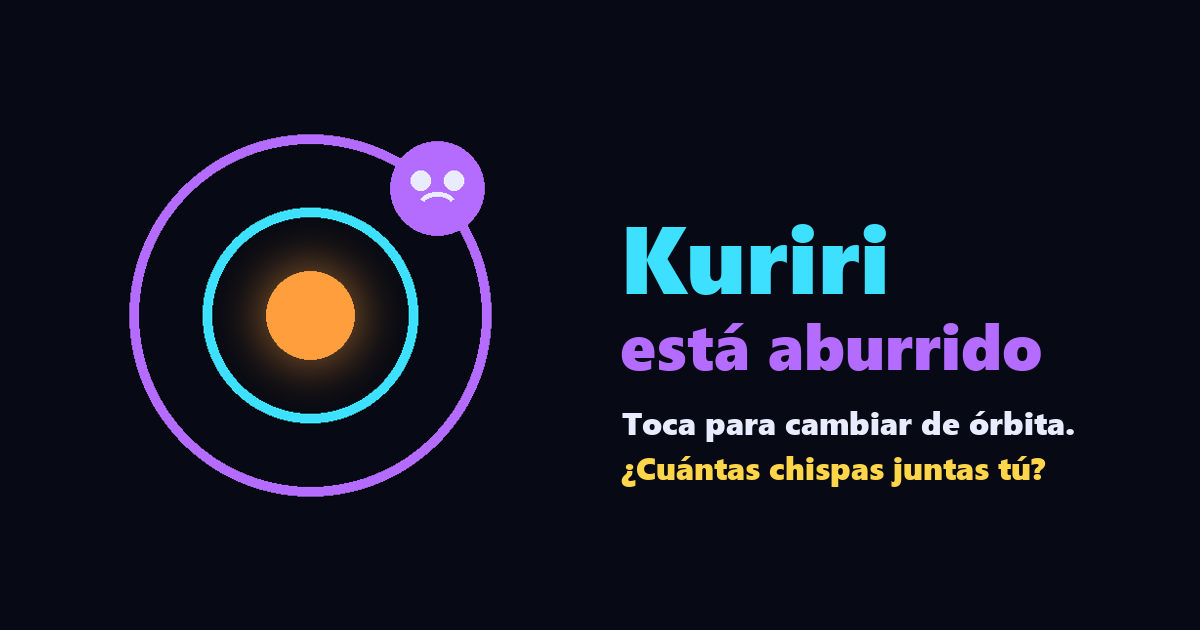
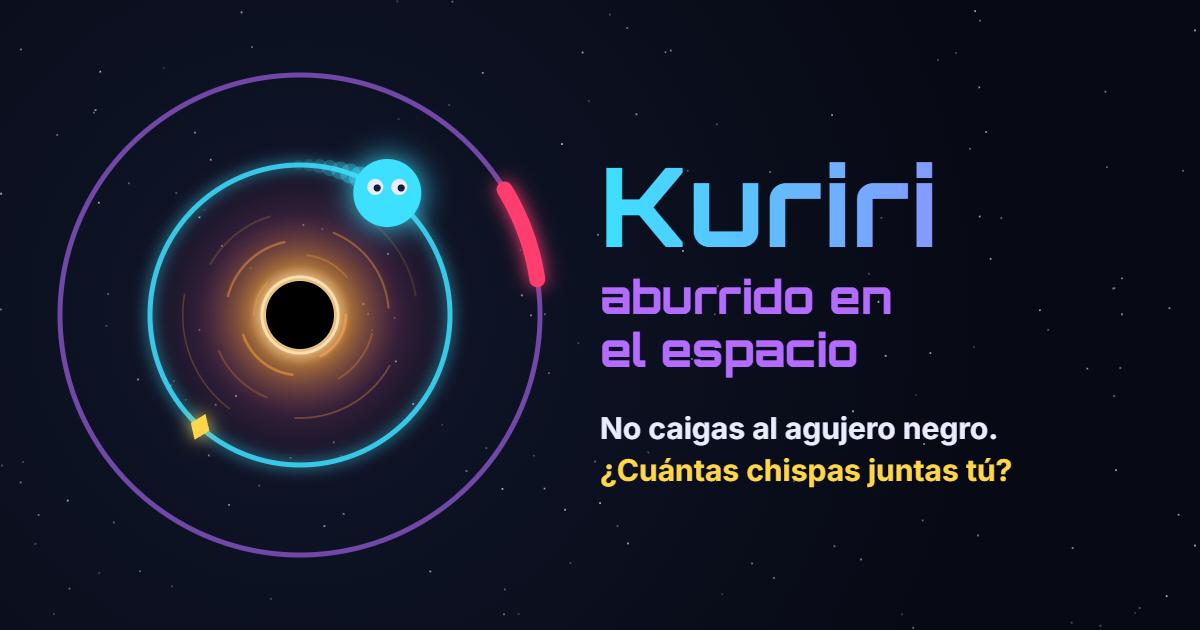
Kuriri aburrido en el espacio: nombre nuevo, intro del sueño, vista previa nueva y modo ?prueba

diff --git a/index.html b/index.html
@@ -3,7 +3,7 @@
 <head>
 <meta charset="utf-8">
 <meta name="viewport" content="width=device-width, initial-scale=1, viewport-fit=cover, user-scalable=no">
-<title>Kuriri está aburrido</title>
+<title>Kuriri aburrido en el espacio</title>
 <meta name="description" content="Juego de un dedo: Kuriri orbita un agujero negro y cae hacia él sin llegar nunca. Junta chispas y esquiva los arcos rojos.">
 <meta name="theme-color" content="#070a14">
 <meta name="apple-mobile-web-app-capable" content="yes">
@@ -11,9 +11,9 @@
 <meta name="apple-mobile-web-app-status-bar-style" content="black-translucent">
 <meta name="apple-mobile-web-app-title" content="Kuriri">
 <meta property="og:type" content="website">
-<meta property="og:title" content="Kuriri está aburrido">
+<meta property="og:title" content="Kuriri aburrido en el espacio">
 <meta property="og:description" content="Juego de un dedo: Kuriri cae a un agujero negro sin llegar nunca. Junta chispas, no te hagas espagueti y entra al Top 5.">
-<meta property="og:image" content="https://camj90.github.io/kuriri/vista-previa.png">
+<meta property="og:image" content="https://camj90.github.io/kuriri/vista-previa.png?v=2">
 <meta property="og:image:width" content="1200">
 <meta property="og:image:height" content="630">
 <meta property="og:url" content="https://camj90.github.io/kuriri/">
@@ -73,6 +73,20 @@ canvas{position:fixed;inset:0;width:100%;height:100%;display:block}
 .top li.tu{background:rgba(255,213,74,.14);box-shadow:inset 0 0 0 1px rgba(255,213,74,.55)}
 .top li.vacio{display:block;color:var(--dim);font-size:14px}
 .top .estado{margin:0;font-size:12px;color:var(--dim)}
+/* intro: texto abajo, botón para saltar arriba; el HUD se esconde mientras dura */
+#intro{position:fixed;inset:0;pointer-events:none}
+#introTxt{position:fixed;left:max(16px,env(safe-area-inset-left,0px));right:max(16px,env(safe-area-inset-right,0px));
+  bottom:calc(env(safe-area-inset-bottom,0px) + 48px);margin:0 auto;max-width:420px;text-align:center;
+  font:600 18px/1.45 var(--body);color:var(--ink);text-wrap:balance;text-shadow:0 2px 14px #000,0 0 4px #000}
+#introTxt.entra{animation:entra .6s ease-out}
+@keyframes entra{0%{opacity:0;transform:translateY(8px)}100%{opacity:1;transform:none}}
+#saltar{position:fixed;top:calc(env(safe-area-inset-top,0px) + 14px);right:max(16px,env(safe-area-inset-right,0px));pointer-events:auto;
+  font:800 12px var(--display);letter-spacing:.14em;color:var(--ink);background:rgba(255,255,255,.08);
+  border:1px solid rgba(255,255,255,.18);border-radius:999px;padding:10px 16px;cursor:pointer}
+#saltar:focus-visible,.link:focus-visible{outline:2px solid var(--inner);outline-offset:2px}
+body.en-intro .hud{visibility:hidden}
+.link{justify-self:center;background:none;border:0;color:var(--dim);font:600 14px var(--body);text-decoration:underline;
+  text-underline-offset:3px;padding:6px 10px;cursor:pointer}
 *{box-sizing:border-box}html,body{margin:0}[hidden]{display:none!important}
 :root{padding-top:env(safe-area-inset-top,0px);padding-bottom:env(safe-area-inset-bottom,0px)}
 </style>
@@ -87,15 +101,21 @@ canvas{position:fixed;inset:0;width:100%;height:100%;display:block}
 </div>
 <div id="panel">
   <div class="caja">
-    <h1>Kuriri está aburrido</h1>
+    <h1>Kuriri aburrido en el espacio</h1>
     <div class="res" id="res" hidden><span class="big" id="final">0</span>chispas · récord <span id="finalRecord">0</span></div>
     <p id="msg">Kuriri orbita un agujero negro y cae hacia él, cada vez más lento, sin llegar nunca. <b>Toca la pantalla</b> para saltar entre la órbita interior y la exterior. Junta chispas y esquiva los arcos rojos: si chocas, Kuriri cae al centro y se estira como espagueti.</p>
     <div class="leyenda"><span><i style="background:var(--spark)"></i>chispa</span><span><i style="background:var(--danger)"></i>peligro</span></div>
     <div class="campo"><label for="nombre">Tu nombre de jugador</label>
       <input id="nombre" type="text" maxlength="12" autocomplete="nickname" placeholder="Escribe tu nombre" enterkeyhint="go"></div>
     <button id="jugar" type="button">JUGAR</button>
+    <button id="verIntro" class="link" type="button">Ver la intro</button>
     <div class="top"><h2>Top 5</h2><ol id="top"></ol><p class="estado" id="estadoTop"></p></div>
   </div>
+</div>
+
+<div id="intro" hidden>
+  <p id="introTxt" aria-live="polite"></p>
+  <button id="saltar" type="button">SALTAR ›</button>
 </div>
 
 <script>
@@ -134,6 +154,8 @@ addEventListener('resize', ajustar); ajustar();
 // únicamente marcas que superan la anterior del mismo jugador.
 const SB_URL = 'https://aiemzudvhrueskkxlgmf.supabase.co/rest/v1';
 const SB_KEY = 'sb_publishable_BgbW__E1u_GCmoDJEENWIA_LlORf1rE';
+// Con ?prueba en la dirección no se toca el ranking real (para probar el juego sin ensuciarlo).
+const PRUEBA = new URLSearchParams(location.search).has('prueba');
 const leer = (k, d) => { try { const v = localStorage.getItem(k); return v === null ? d : JSON.parse(v); } catch (e) { return d; } };
 const guardar = (k, v) => { try { localStorage.setItem(k, JSON.stringify(v)); } catch (e) {} };
 const clave = n => n.trim().toLocaleLowerCase('es');
@@ -182,6 +204,7 @@ function pintarTop() {
 }
 
 async function cargarTop() {
+  if (PRUEBA) { pintarTop(); return; }
   try {
     const r = await fetch(`${SB_URL}/marcas?select=nombre,puntos,fecha&order=puntos.desc,fecha.asc&limit=5`,
                           {headers: {apikey: SB_KEY}, cache: 'no-store'});
@@ -194,6 +217,7 @@ async function cargarTop() {
 
 // Sube la mejor marca local de ese jugador; el servidor la ignora si no supera la que ya tiene.
 async function subirMarca(nombre) {
+  if (PRUEBA) return;
   const mia = locales.find(e => clave(e.n) === clave(nombre));
   if (!mia) return;
   try {
@@ -259,17 +283,19 @@ const posJugador = () => ({x: cx + Math.cos(s.a) * s.pr, y: cy + Math.sin(s.a) *
 
 // ---------- entrada ----------
 function empezar() {
-  if (!audio) { try { audio = new (window.AudioContext || window.webkitAudioContext)(); } catch (e) {} }
   nuevo(); modo = 'juego';
   $('panel').hidden = true; $('puntos').textContent = '0';
   beep(440, 0.12, 'triangle', 0.1, 880);
 }
-function intentarEmpezar() {
-  if (modo === 'juego' || performance.now() - muertoEn < 650) return;
+function intentarEmpezar(conIntro = false) {
+  if (modo === 'juego' || modo === 'intro' || performance.now() - muertoEn < 650) return;
+  if (!audio) { try { audio = new (window.AudioContext || window.webkitAudioContext)(); } catch (e) {} }
   $('nombre').blur(); guardar('kuriri-nombre', $('nombre').value.trim());
-  empezar();
+  // La primera vez (o con «Ver la intro») se cuenta el sueño de Kuriri y luego parte el juego.
+  if (conIntro || !leer('kuriri-intro', 0)) empezarIntro(); else empezar();
 }
 function tocar(e) {
+  if (modo === 'intro') { if (e && e.target.id !== 'saltar') { e.preventDefault(); siguienteEscena(); } return; }
   if (modo !== 'juego') return;            // fuera del juego, los toques son del panel (nombre y botón)
   if (e) e.preventDefault();
   {
@@ -282,7 +308,7 @@ function tocar(e) {
 addEventListener('pointerdown', tocar, {passive: false});
 addEventListener('keydown', e => {
   if (e.code !== 'Space' && e.code !== 'Enter') return;
-  if (modo === 'juego') tocar(e);
+  if (modo === 'juego' || modo === 'intro') tocar(e);
   else if (e.code === 'Enter' || e.target.id !== 'nombre') { e.preventDefault(); intentarEmpezar(); }
 });
 
@@ -395,6 +421,7 @@ function circulo(x, y, r, color, alfa = 1, brillo = 0) {
 }
 
 function dibujar(tReal) {
+  if (intro) { dibujarIntro(tReal); return; }
   ctx.fillStyle = C.bg; ctx.fillRect(0, 0, W, H);
   const g = ctx.createRadialGradient(cx, cy, 0, cx, cy, Math.max(W, H) * 0.7);
   g.addColorStop(0, C.bg2); g.addColorStop(1, C.bg);
@@ -507,18 +534,187 @@ function dibujarAgujero(t) {
   circulo(cx, cy, RS, '#000', 1);
 }
 
+// ---------- intro: el sueño de Kuriri ----------
+const ESCENAS = [
+  {hasta: 3.6,  txt: 'Kuriri es psicólogo de selección de personal. Hoy ya revisó 148 currículums…'},
+  {hasta: 7.0,  txt: '…y se quedó dormido encima del laptop.'},
+  {hasta: 9.6,  txt: 'Entonces soñó que viajaba al espacio.'},
+  {hasta: 13.4, txt: 'Allí orbita un agujero negro. Mientras no caiga al centro, Kuriri se mantiene entretenido.'},
+];
+const FIN_INTRO = ESCENAS[ESCENAS.length - 1].hasta;
+let intro = null;
+function empezarIntro() {
+  intro = {t: 0, escena: -1}; modo = 'intro'; s = null;
+  $('panel').hidden = true; $('intro').hidden = false; document.body.classList.add('en-intro');
+}
+function terminarIntro() {
+  if (!intro) return;
+  intro = null; $('intro').hidden = true; document.body.classList.remove('en-intro');
+  guardar('kuriri-intro', 1);
+  empezar();
+}
+function siguienteEscena() {               // un toque adelanta a la escena siguiente
+  if (!intro) return;
+  const e = ESCENAS[Math.max(0, intro.escena)];
+  intro.t = Math.max(intro.t, e.hasta);
+}
+function actualizarIntro(dt) {
+  intro.t += dt;
+  if (intro.t >= FIN_INTRO) { terminarIntro(); return; }
+  const i = ESCENAS.findIndex(e => intro.t < e.hasta);
+  if (i !== intro.escena) {
+    intro.escena = i;
+    const el = $('introTxt'); el.textContent = ESCENAS[i].txt;
+    el.classList.remove('entra'); void el.offsetWidth; el.classList.add('entra');
+    if (i === 2) beep(180, 1.6, 'sine', 0.08, 1400);       // el viaje
+    if (i === 3) beep(70, 1.4, 'sine', 0.16, 45);          // el agujero negro
+  }
+}
+const azar = i => { const x = Math.sin(i * 12.9898) * 43758.5453; return x - Math.floor(x); };
+const suave = (a, b, x) => { const k = Math.max(0, Math.min(1, (x - a) / (b - a))); return k * k * (3 - 2 * k); };
+
+// Kuriri: bolita con ojos. abiertos: 1 = despierto, 0 = dormido (rayitas). mira: hacia dónde miran los ojos.
+function dibujarKuriri(x, y, r, color, abiertos = 1, mira = 0, brillo = 20) {
+  circulo(x, y, r, color, 1, brillo);
+  const ox = r * 0.36, oy = -r * 0.18, dx = mira * r * 0.12;
+  if (abiertos > 0.15) {
+    circulo(x - ox + dx, y + oy, r * 0.24, C.ink, 1);
+    circulo(x + ox + dx, y + oy, r * 0.24, C.ink, 1);
+    circulo(x - ox + dx * 1.6, y + oy, r * 0.11, '#1a1f3a', 1);
+    circulo(x + ox + dx * 1.6, y + oy, r * 0.11, '#1a1f3a', 1);
+    if (abiertos < 1) {                   // párpados bajando
+      ctx.fillStyle = color;
+      ctx.fillRect(x - ox - r * 0.3 + dx, y + oy - r * 0.3, r * 0.6, r * 0.6 * (1 - abiertos));
+      ctx.fillRect(x + ox - r * 0.3 + dx, y + oy - r * 0.3, r * 0.6, r * 0.6 * (1 - abiertos));
+    }
+  } else {
+    ctx.save(); ctx.strokeStyle = '#1a1f3a'; ctx.lineWidth = Math.max(1.5, r * 0.07); ctx.lineCap = 'round';
+    for (const sx of [-1, 1]) { ctx.beginPath(); ctx.arc(x + sx * ox, y + oy - r * 0.05, r * 0.16, 0.2, Math.PI - 0.2); ctx.stroke(); }
+    ctx.restore();
+  }
+}
+
+function dibujarOficina(t) {
+  const u = Math.min(W, H) / 400, mesa = cy + 50 * u;
+  // pieza de noche con la luz de una lámpara
+  ctx.fillStyle = '#0d1226'; ctx.fillRect(0, 0, W, H);
+  const luz = ctx.createRadialGradient(cx - 120 * u, cy - 140 * u, 0, cx - 120 * u, cy - 140 * u, 320 * u);
+  luz.addColorStop(0, 'rgba(255,200,120,0.22)'); luz.addColorStop(1, 'rgba(255,200,120,0)');
+  ctx.fillStyle = luz; ctx.fillRect(0, 0, W, H);
+  // ventana con estrellas: el espacio ya está esperando
+  const vx = cx + 40 * u, vy = cy - 210 * u, vw = 120 * u, vh = 90 * u;
+  ctx.fillStyle = '#05070f'; ctx.fillRect(vx, vy, vw, vh);
+  for (let i = 0; i < 14; i++) circulo(vx + azar(i) * vw, vy + azar(i + 50) * vh, 1 + azar(i + 9) * 1.2, C.ink, 0.4 + 0.4 * Math.sin(t * 2 + i));
+  ctx.strokeStyle = '#2b3358'; ctx.lineWidth = 4 * u; ctx.strokeRect(vx, vy, vw, vh);
+  ctx.beginPath(); ctx.moveTo(vx + vw / 2, vy); ctx.lineTo(vx + vw / 2, vy + vh); ctx.stroke();
+  // escritorio
+  ctx.fillStyle = '#3b2a20'; ctx.fillRect(0, mesa, W, H - mesa);
+  ctx.fillStyle = '#5a4030'; ctx.fillRect(0, mesa, W, 6 * u);
+  // taza de café
+  ctx.fillStyle = '#c9d2ea'; ctx.fillRect(cx - 150 * u, mesa - 26 * u, 20 * u, 26 * u);
+  ctx.strokeStyle = '#c9d2ea'; ctx.lineWidth = 3 * u; ctx.beginPath(); ctx.arc(cx - 128 * u, mesa - 14 * u, 6 * u, -1.4, 1.4); ctx.stroke();
+  // laptop: la pantalla muestra un currículum
+  const lx = cx + 55 * u, ancho = 140 * u, alto = 92 * u, top = mesa - 8 * u - alto;
+  ctx.fillStyle = '#2b3150'; ctx.fillRect(lx - ancho / 2, top, ancho, alto);
+  const pant = {x: lx - ancho / 2 + 6 * u, y: top + 6 * u, w: ancho - 12 * u, h: alto - 12 * u};
+  ctx.save(); ctx.shadowColor = C.inner; ctx.shadowBlur = 30 * u;
+  ctx.fillStyle = '#dfe8ff'; ctx.fillRect(pant.x, pant.y, pant.w, pant.h); ctx.restore();
+  ctx.fillStyle = '#1a1f3a'; ctx.font = `800 ${9 * u}px ${css('--display')}`; ctx.textBaseline = 'top';
+  ctx.fillText('CV #' + Math.min(148, 146 + Math.floor(t / 1.2)), pant.x + 30 * u, pant.y + 7 * u);
+  circulo(pant.x + 15 * u, pant.y + 14 * u, 8 * u, '#8a91b4', 1);
+  const desp = (t * 14 * u) % (10 * u);
+  ctx.save(); ctx.beginPath(); ctx.rect(pant.x, pant.y + 28 * u, pant.w, pant.h - 30 * u); ctx.clip();
+  for (let i = 0; i < 8; i++) {
+    ctx.fillStyle = i % 3 === 0 ? '#8a91b4' : '#b9c1dc';
+    ctx.fillRect(pant.x + 8 * u, pant.y + 30 * u + i * 10 * u - desp, pant.w * (0.5 + azar(i + Math.floor(t / 1.2)) * 0.4), 4 * u);
+  }
+  ctx.restore();
+  ctx.fillStyle = '#9aa3b8'; ctx.fillRect(lx - ancho / 2 - 10 * u, mesa - 8 * u, ancho + 20 * u, 8 * u);
+  return {mesa, lx, u, pant};
+}
+
+function dibujarIntro(t) {
+  const e = intro.t;
+  if (e < 7.2) {
+    // escenas 1 y 2: en la oficina; Kuriri lee, se le cierran los ojos y se apoya en el laptop
+    const o = dibujarOficina(e), u = o.u;
+    const sueno = suave(3.6, 5.6, e);                       // 0 despierto → 1 dormido
+    const parpadeo = e < 3.6 && (e % 1.7) < 0.12 ? 0.2 : 1;
+    const x = cx - 75 * u + sueno * 70 * u, y = o.mesa - 48 * u + sueno * 30 * u + Math.sin(e * 2) * 2 * u * (1 - sueno);
+    // corbata de psicólogo
+    ctx.fillStyle = C.danger; ctx.beginPath();
+    ctx.moveTo(x - 6 * u, y + 34 * u); ctx.lineTo(x + 6 * u, y + 34 * u); ctx.lineTo(x + 4 * u, y + 52 * u); ctx.lineTo(x, y + 58 * u); ctx.lineTo(x - 4 * u, y + 52 * u);
+    ctx.fill();
+    dibujarKuriri(x, y, 38 * u, C.outer, Math.max(0, 1 - sueno * 1.2) * parpadeo, 1 - sueno, 24 * u);
+    // Z z z
+    if (e > 5.2) for (let i = 0; i < 3; i++) {
+      const k = ((e - 5.2) * 0.6 + i / 3) % 1;
+      ctx.globalAlpha = Math.sin(k * Math.PI); ctx.fillStyle = C.ink;
+      ctx.font = `800 ${(12 + k * 14) * u}px ${css('--display')}`;
+      ctx.fillText('z', x + 30 * u + k * 40 * u, y - 40 * u - k * 70 * u); ctx.globalAlpha = 1;
+    }
+    // al final la pantalla se enciende y se lo traga el sueño
+    const blanco = suave(6.4, 7.2, e);
+    if (blanco > 0) {
+      const cxp = o.pant.x + o.pant.w / 2, cyp = o.pant.y + o.pant.h / 2;
+      const g = ctx.createRadialGradient(cxp, cyp, 0, cxp, cyp, Math.hypot(W, H) * blanco);
+      g.addColorStop(0, 'rgba(230,245,255,1)'); g.addColorStop(0.6, 'rgba(61,224,255,0.9)'); g.addColorStop(1, 'rgba(61,224,255,0)');
+      ctx.fillStyle = g; ctx.fillRect(0, 0, W, H);
+    }
+    return;
+  }
+  // escena 3: viaje por el hiperespacio
+  ctx.fillStyle = C.bg; ctx.fillRect(0, 0, W, H);
+  const max = Math.hypot(W, H) * 0.6;
+  if (e < 9.6) {
+    const v = suave(7.2, 8.2, e) * (1 - suave(9.0, 9.6, e));
+    ctx.lineCap = 'round';
+    for (let i = 0; i < 110; i++) {
+      const ang = azar(i) * TAU, d = Math.pow((azar(i + 200) + e * 0.7) % 1, 2) * max;
+      ctx.strokeStyle = i % 4 === 0 ? C.inner : i % 4 === 1 ? C.outer : C.ink;
+      ctx.globalAlpha = Math.min(1, d / max * 2) * (0.3 + v * 0.7);
+      ctx.lineWidth = 1 + d / max * 2;
+      ctx.beginPath(); ctx.moveTo(cx + Math.cos(ang) * d, cy + Math.sin(ang) * d);
+      ctx.lineTo(cx + Math.cos(ang) * d * (1 + 0.04 + v * 0.25), cy + Math.sin(ang) * d * (1 + 0.04 + v * 0.25)); ctx.stroke();
+    }
+    ctx.globalAlpha = 1;
+    const fl = 1 - suave(7.2, 7.8, e);                   // resto del destello de la pantalla
+    if (fl > 0) { ctx.fillStyle = `rgba(61,224,255,${fl * 0.8})`; ctx.fillRect(0, 0, W, H); }
+    dibujarKuriri(cx, cy + Math.sin(e * 3) * 6, 26, C.inner, 1, Math.sin(e * 1.3), 26);
+    return;
+  }
+  // escena 4: aparece el agujero negro y Kuriri cae en espiral hasta su órbita (donde parte el juego)
+  const g = ctx.createRadialGradient(cx, cy, 0, cx, cy, Math.max(W, H) * 0.7);
+  g.addColorStop(0, C.bg2); g.addColorStop(1, C.bg); ctx.fillStyle = g; ctx.fillRect(0, 0, W, H);
+  ctx.fillStyle = C.ink;
+  for (const st of estrellas) {
+    ctx.globalAlpha = st.b * Math.max(0, Math.min(1, (st.r - RS) / (RS * 2)));
+    ctx.fillRect(cx + Math.cos(st.a) * st.r, cy + Math.sin(st.a) * st.r, st.z, st.z);
+  }
+  const ap = suave(9.6, 10.8, e);
+  ctx.globalAlpha = ap; dibujarAgujero(t);
+  arco(RB[0], 0, TAU, C.inner, 2, 0.25 * ap); arco(RB[1], 0, TAU, C.outer, 2, 0.25 * ap);
+  ctx.globalAlpha = 1;
+  const falta = Math.max(0, (FIN_INTRO - e) / (FIN_INTRO - 9.6));
+  const r = RB[0] + (max * 0.9 - RB[0]) * falta * falta, a = -Math.PI / 2 - falta * 7;
+  dibujarKuriri(cx + Math.cos(a) * r, cy + Math.sin(a) * r, 11 + falta * 10, C.inner, 1, 0, 20);
+}
+
 // ---------- bucle ----------
 let antes = performance.now(), textoDist = '';
 function cuadro(ahora) {
   const dtReal = Math.min((ahora - antes) / 1000, 1 / 30); antes = ahora;
   moverEstrellas(dtReal);
+  if (intro) actualizarIntro(dtReal);
   if (s) actualizar(dtReal, dtReal);
   const txt = s ? ((s.caida ? s.caida.r : s.pr) / RS).toFixed(2) + ' rₛ' : '—';
   if (txt !== textoDist) { textoDist = txt; $('dist').textContent = txt; }
   dibujar(ahora / 1000);
   requestAnimationFrame(cuadro);
 }
-$('jugar').addEventListener('click', intentarEmpezar);
+$('jugar').addEventListener('click', () => intentarEmpezar(false));
+$('verIntro').addEventListener('click', () => intentarEmpezar(true));
+$('saltar').addEventListener('click', terminarIntro);
 requestAnimationFrame(cuadro);
 })();
 </script>

diff --git a/og/vista-previa.html b/og/vista-previa.html
@@ -1,0 +1,45 @@
+<!doctype html>
+<html lang="es"><head><meta charset="utf-8">
+<!-- Genera vista-previa.png (1200x630) para WhatsApp: abrir con viewport 1200x630 y sacar captura. -->
+<link rel="stylesheet" href="https://fonts.googleapis.com/css2?family=Orbitron:wght@800&family=Inter:wght@700&display=swap">
+<style>
+html,body{margin:0;width:1200px;height:630px;overflow:hidden;background:#070a14}
+canvas{position:absolute;inset:0}
+.t{position:absolute;left:600px;top:150px;width:560px;font-family:Orbitron,sans-serif;font-weight:800}
+.t .a{font-size:110px;line-height:1;background:linear-gradient(90deg,#3de0ff,#b46bff);-webkit-background-clip:text;color:transparent}
+.t .b{font-size:46px;line-height:1.15;color:#b46bff;margin-top:10px}
+.t .c{font:700 30px Inter,sans-serif;color:#e9ecff;margin-top:34px}
+.t .d{font:700 30px Inter,sans-serif;color:#ffd54a;margin-top:6px}
+</style></head><body>
+<canvas id="c" width="1200" height="630"></canvas>
+<div class="t"><div class="a">Kuriri</div><div class="b">aburrido en<br>el espacio</div>
+<div class="c">No caigas al agujero negro.</div><div class="d">¿Cuántas chispas juntas tú?</div></div>
+<script>
+const x = document.getElementById('c').getContext('2d'), cx = 300, cy = 315, RS = 34, T = Math.PI * 2;
+const az = i => { const v = Math.sin(i * 12.9898) * 43758.5453; return v - Math.floor(v); };
+let g = x.createRadialGradient(cx, cy, 0, cx, cy, 700); g.addColorStop(0, '#10162b'); g.addColorStop(1, '#070a14');
+x.fillStyle = g; x.fillRect(0, 0, 1200, 630);
+for (let i = 0; i < 160; i++) { x.globalAlpha = 0.2 + az(i + 3) * 0.6; x.fillStyle = '#e9ecff'; x.fillRect(az(i) * 1200, az(i + 99) * 630, 1.6, 1.6); }
+x.globalAlpha = 1;
+g = x.createRadialGradient(cx, cy, RS * 0.95, cx, cy, RS * 5.5);
+g.addColorStop(0, 'rgba(255,214,150,0.95)'); g.addColorStop(0.12, 'rgba(255,158,61,0.6)');
+g.addColorStop(0.45, 'rgba(190,70,120,0.2)'); g.addColorStop(1, 'rgba(7,10,20,0)');
+x.fillStyle = g; x.beginPath(); x.arc(cx, cy, RS * 5.5, 0, T); x.fill();
+const arco = (r, a0, a1, c, w, al, b = 0) => { x.save(); x.globalAlpha = al; x.strokeStyle = c; x.lineWidth = w; x.lineCap = 'round';
+  if (b) { x.shadowColor = c; x.shadowBlur = b; } x.beginPath(); x.arc(cx, cy, r, a0, a1); x.stroke(); x.restore(); };
+for (let i = 0; i < 6; i++) { const r = RS * (1.35 + i * 0.42), a0 = i * 1.7; arco(r, a0, a0 + 1.1, '#ff9e3d', 3 - i * 0.3, 0.6 - i * 0.07); arco(r, a0 + 3.14, a0 + 3.9, '#ff9e3d', 2, 0.35 - i * 0.04); }
+arco(RS * 1.12, 0, T, '#ffe2b0', 3, 0.95, 18);
+x.fillStyle = '#000'; x.beginPath(); x.arc(cx, cy, RS, 0, T); x.fill();
+arco(150, 0, T, '#3de0ff', 5, 0.85, 14); arco(240, 0, T, '#b46bff', 5, 0.6);
+arco(240, -0.55, -0.15, '#ff3d6e', 16, 1, 18);
+// chispa
+x.save(); x.translate(cx + Math.cos(2.3) * 150, cy + Math.sin(2.3) * 150); x.rotate(0.4); x.fillStyle = '#ffd54a'; x.shadowColor = '#ffd54a'; x.shadowBlur = 18;
+x.beginPath(); x.moveTo(0, -14); x.lineTo(10, 0); x.lineTo(0, 14); x.lineTo(-10, 0); x.closePath(); x.fill(); x.restore();
+// Kuriri con estela
+const ka = -0.95, kx = cx + Math.cos(ka) * 150, ky = cy + Math.sin(ka) * 150;
+for (let i = 1; i <= 10; i++) { const a = ka - i * 0.07; x.globalAlpha = 0.5 - i * 0.045; x.fillStyle = '#3de0ff';
+  x.beginPath(); x.arc(cx + Math.cos(a) * 150, cy + Math.sin(a) * 150, 14 - i, 0, T); x.fill(); }
+x.globalAlpha = 1; x.save(); x.shadowColor = '#3de0ff'; x.shadowBlur = 30; x.fillStyle = '#3de0ff'; x.beginPath(); x.arc(kx, ky, 34, 0, T); x.fill(); x.restore();
+for (const s of [-1, 1]) { x.fillStyle = '#e9ecff'; x.beginPath(); x.arc(kx + s * 12, ky - 6, 8, 0, T); x.fill();
+  x.fillStyle = '#1a1f3a'; x.beginPath(); x.arc(kx + s * 12 + 2, ky - 5, 3.6, 0, T); x.fill(); }
+</script></body></html>

diff --git a/sw.js b/sw.js
@@ -1,5 +1,5 @@
 // Guarda el juego en el teléfono para que funcione sin internet.
-const CACHE = 'kuriri-v7';
+const CACHE = 'kuriri-v8';
 const ARCHIVOS = ['./', './index.html', './manifest.webmanifest', './icono-180.png', './icono-192.png', './icono-512.png'];
 self.addEventListener('install', e => e.waitUntil(caches.open(CACHE).then(c => c.addAll(ARCHIVOS)).then(() => self.skipWaiting())));
 self.addEventListener('activate', e => e.waitUntil(
